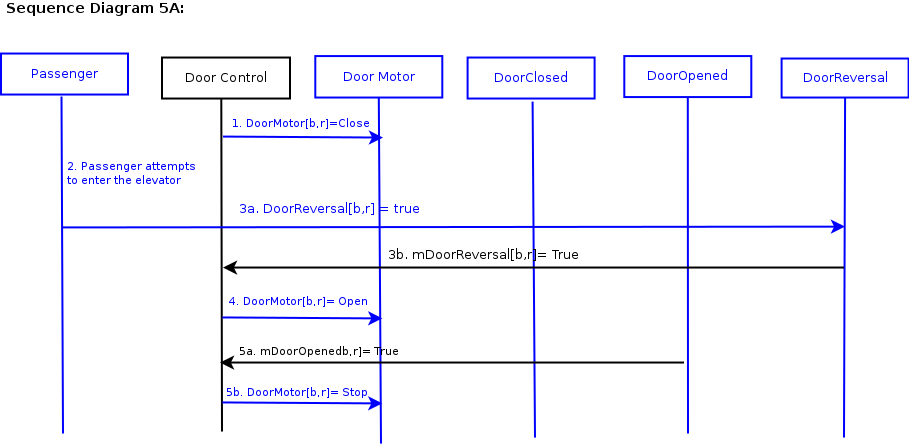
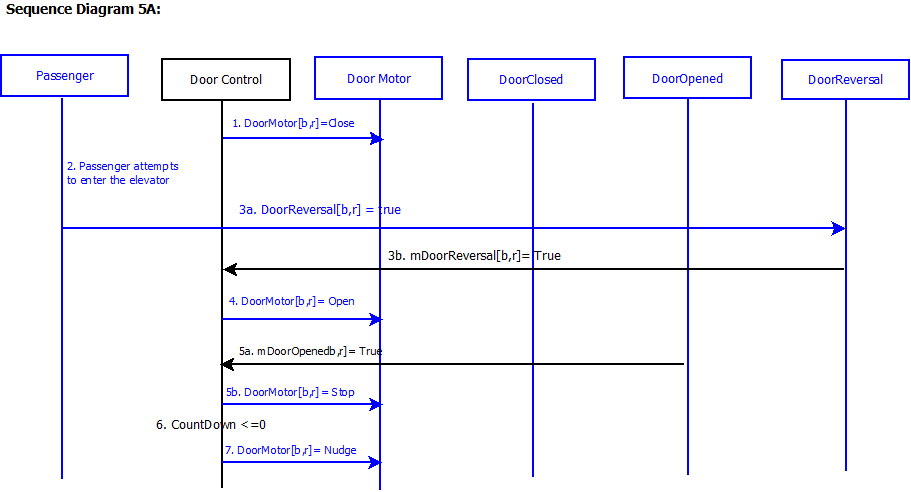
change SD 5A

Changed region(s): [[0.0, 0.0878, 1.0, 1.0], [0.0616, 0.3221, 0.2156, 0.4099], [0.0, 0.0, 0.2156, 0.0293]]

diff --git a/scen_sd/scen_sd.html b/scen_sd/scen_sd.html
@@ -206,7 +206,7 @@
       </ul>
       <h3> Sequence Diagram:</h3>
       <a href="scenario2a.png"><img alt="2A" src="scenario2a.png"
-          border="0" height="337" width="987"></a>
+          height="337" border="0" width="987"></a>
       <div align="center">
         <hr align="center" size="2" width="100%"> </div>
       <h3> <a name="scenario2b" id="scenario2b"></a>2B: Passenger is in
@@ -255,7 +255,7 @@
       </ul>
       <h3> Sequence Diagram: </h3>
       <a href="SD_2b_yichaoxue.png"><img alt="2B"
-          src="SD_2b_yichaoxue.png" border="0" height="337" width="576"></a><br>
+          src="SD_2b_yichaoxue.png" height="337" border="0" width="576"></a><br>
       <div align="center">
         <hr align="center" size="2" width="100%"> </div>
       <p> &nbsp; <br>
@@ -354,7 +354,7 @@
       </ul>
       <h3> Sequence Diagram: </h3>
       <a href="scenario3a.png"><img alt="3A" src="scenario3a.png"
-          border="0" height="402" width="1127"></a>
+          height="402" border="0" width="1127"></a>
       <div align="center">
         <hr align="center" size="2" width="100%"> </div>
       <p> &nbsp; </p>
@@ -410,7 +410,9 @@
         <li>Passenger attempts to enter.</li>
         <li>Passenger triggers the door[<b>b,r</b>] reversal.</li>
         <li>Door starts opening.</li>
-        <li>Door opens completely.<br>
+        <li>Door opens completely.</li>
+        <li>CountDown timer reaches zero.</li>
+        <li>Door starts nudging.<br>
         </li>
       </ol>
       <h3> Post-Conditions: </h3>
@@ -418,11 +420,11 @@
         <li>Passenger is inside the car.</li>
         <li>Elevator is stopped and both elevator and Passenger are at
           the same floor <b>f.</b></li>
-        <li>All doors[b,r] of hallway<b> b</b> are completely open.<b><br>
+        <li>Door[b,r] is nudging.<b><br>
           </b></li>
       </ul>
       <h3> Sequence Diagram: </h3>
-      <img alt="" src="Priya_5A.png" height="444" width="909"><br>
+      <img alt="" src="Priya_5A.png" height="492" width="911"><br>
       <p> <a href="proj2_scenario5a.gif"><br>
         </a> </p>
       <div align="center">
@@ -502,8 +504,8 @@
         </li>
       </ul>
       <h3> Sequence Diagram: </h3>
-      <a href="Priya_6A.png"><img alt="6A" src="Priya_6A.png" border="0"
-          height="425" width="992"></a><br>
+      <a href="Priya_6A.png"><img alt="6A" src="Priya_6A.png"
+          height="425" border="0" width="992"></a><br>
       <p> <a href="proj2_scenario6.gif"><br>
         </a> </p>
       <div align="center">
@@ -592,7 +594,7 @@
       </ul>
       <h3> Sequence Diagram: </h3>
       <a href="SD_7B_YujiaWang.png"><img alt="7B"
-          src="SD_7B_YujiaWang.png" border="0" height="359" width="1136"></a><br>
+          src="SD_7B_YujiaWang.png" height="359" border="0" width="1136"></a><br>
       <div align="center">
         <hr align="center" size="2" width="100%"> </div>
       <h3> <a name="scenario7c" id="scenario7c"></a>Scenario 7C:
@@ -707,7 +709,7 @@
       <h3> Sequence Diagram: </h3>
       <h3> </h3>
       &nbsp; <a href="SD_9A_wenhui.png"><img alt="9A"
-          src="SD_9A_wenhui.png" border="0" height="357" width="778"></a><br>
+          src="SD_9A_wenhui.png" height="357" border="0" width="778"></a><br>
       <h3></h3>
       <div align="center">
         <hr align="center" size="2" width="100%"><br>
